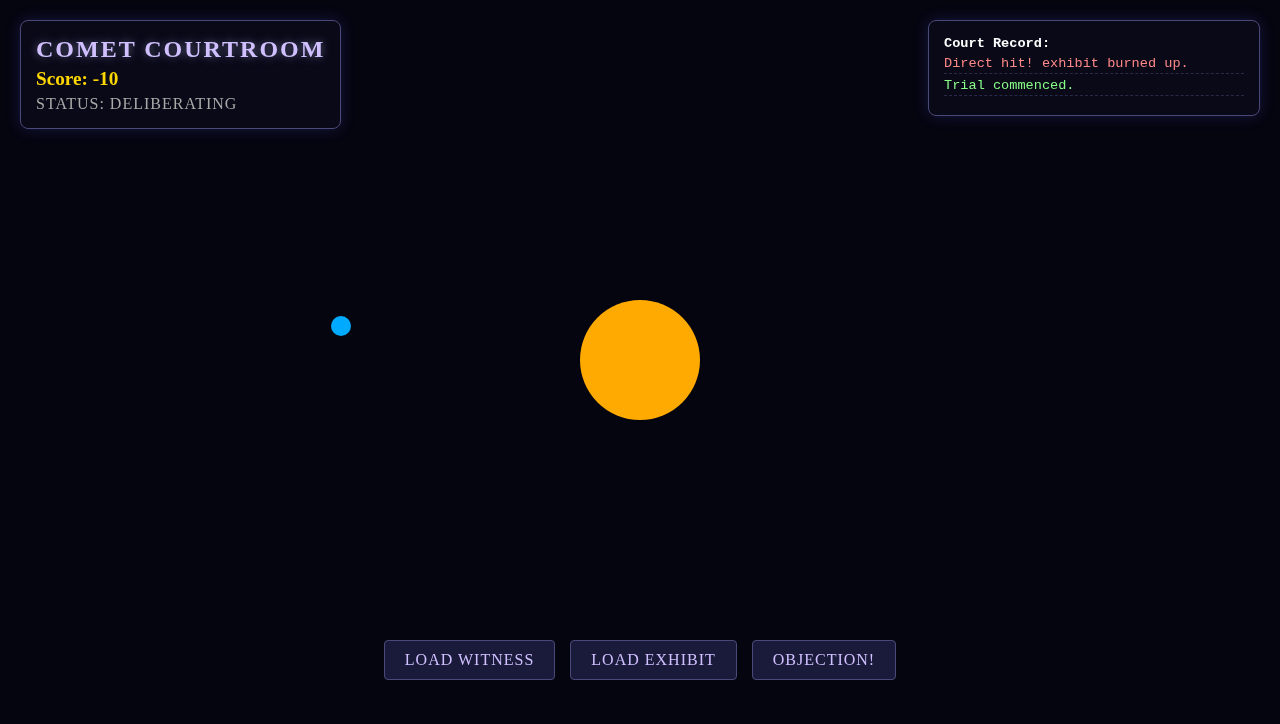
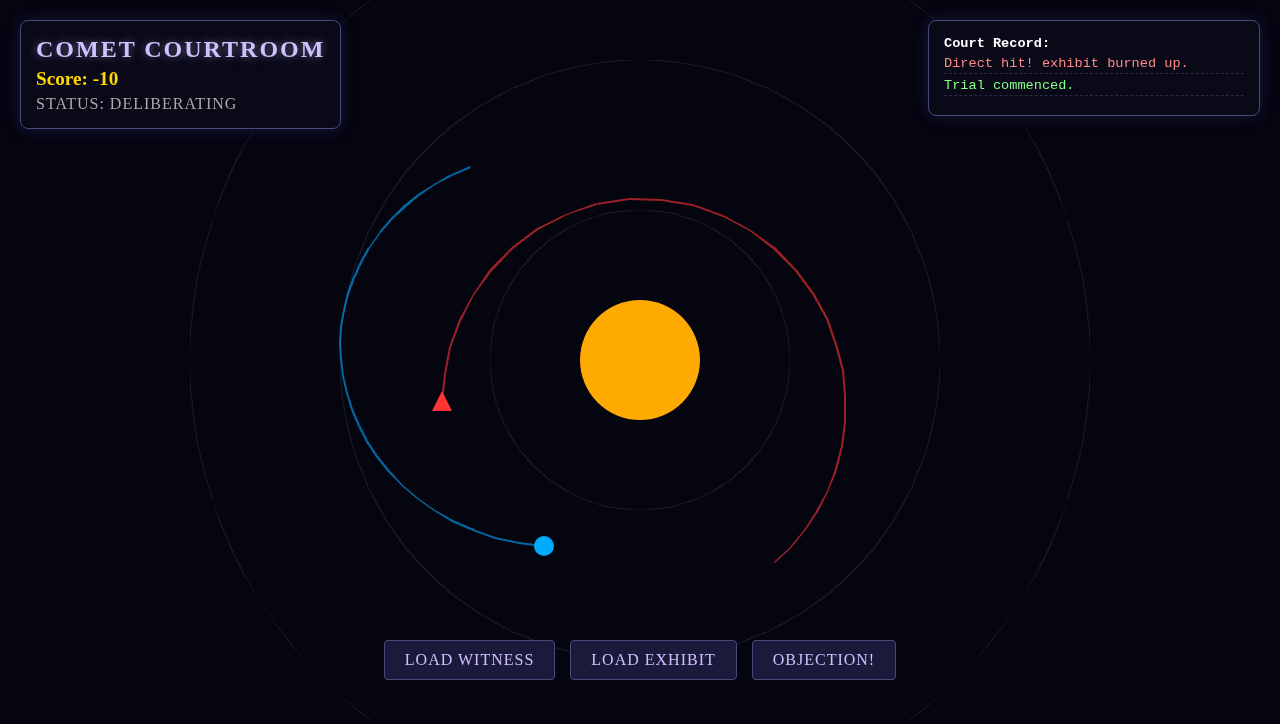
feat: add visual polish and trails to orbits

diff --git a/tier-lib/comet-courtroom/index.html b/tier-lib/comet-courtroom/index.html
@@ -277,6 +277,7 @@
                 this.dragLine = null;
                 this.loadedEvidenceType = null;
                 this.objectionCooldown = false;
+                this.trailGraphics = null;
             }
 
             preload() {
@@ -290,6 +291,16 @@
                 const cx = this.scale.width / 2;
                 const cy = this.scale.height / 2;
 
+                // Ambient rings to show gravitational field
+                const bgGraphics = this.add.graphics();
+                bgGraphics.lineStyle(1, 0x4a4a7a, 0.3);
+                bgGraphics.strokeCircle(cx, cy, 150);
+                bgGraphics.strokeCircle(cx, cy, 300);
+                bgGraphics.strokeCircle(cx, cy, 450);
+
+                // Graphics layer for trails
+                this.trailGraphics = this.add.graphics();
+
                 // Create the Judge Star (central gravity well)
                 this.judge = this.matter.add.image(cx, cy, 'judge', null, {
                     isStatic: true,
@@ -297,8 +308,6 @@
                     circleRadius: 60,
                     label: 'judge'
                 });
-
-                // Ambient particles or rings could go here
 
                 // Add graphics for drag line
                 this.dragLine = this.add.graphics();
@@ -418,6 +427,8 @@
                 });
 
                 piece.setMass(mass);
+                piece.trail = []; // Array to store recent positions
+                piece.trailColor = type === 'witness' ? 0x00aaff : (type === 'exhibit' ? 0x00ffaa : 0xff3333);
 
                 // Apply force based on drag vector (reversed, like a slingshot)
                 const forceMagnitude = 0.0005 * mass;
@@ -609,7 +620,9 @@
                 const cy = this.scale.height / 2;
                 const G = 0.05; // Gravity constant
 
-                // Apply orbital gravity
+                this.trailGraphics.clear();
+
+                // Apply orbital gravity and draw trails
                 for (let i = this.evidencePieces.length - 1; i >= 0; i--) {
                     const piece = this.evidencePieces[i];
                     if (!piece.active) continue;
@@ -621,6 +634,24 @@
                         piece.destroy();
                         this.evidencePieces.splice(i, 1);
                         continue;
+                    }
+
+                    // Trail logic
+                    if (piece.trail) {
+                        piece.trail.push(new Phaser.Math.Vector2(piece.x, piece.y));
+                        if (piece.trail.length > 30) {
+                            piece.trail.shift();
+                        }
+
+                        if (piece.trail.length > 1) {
+                            this.trailGraphics.lineStyle(2, piece.trailColor, 0.6);
+                            this.trailGraphics.beginPath();
+                            this.trailGraphics.moveTo(piece.trail[0].x, piece.trail[0].y);
+                            for (let j = 1; j < piece.trail.length; j++) {
+                                this.trailGraphics.lineTo(piece.trail[j].x, piece.trail[j].y);
+                            }
+                            this.trailGraphics.strokePath();
+                        }
                     }
 
                     // Calculate distance and direction to judge
@@ -712,8 +743,12 @@
 
                 await new Promise(r => setTimeout(r, 1000));
 
-                // Wait for simulation to run and orbits to establish
-                await new Promise(r => setTimeout(r, 2500));
+                // 3. Fire an objection to establish a second distinct orbit
+                scene.loadedEvidenceType = 'objection';
+                scene.fireEvidence(cx, cy + 250, new Phaser.Math.Vector2(-150, 0)); // Fire from bottom right, tangent horizontally
+
+                // Wait for simulation to run and orbits/trails to establish visually
+                await new Promise(r => setTimeout(r, 3500));
 
                 return window.__toyProbe.getState();
             }
